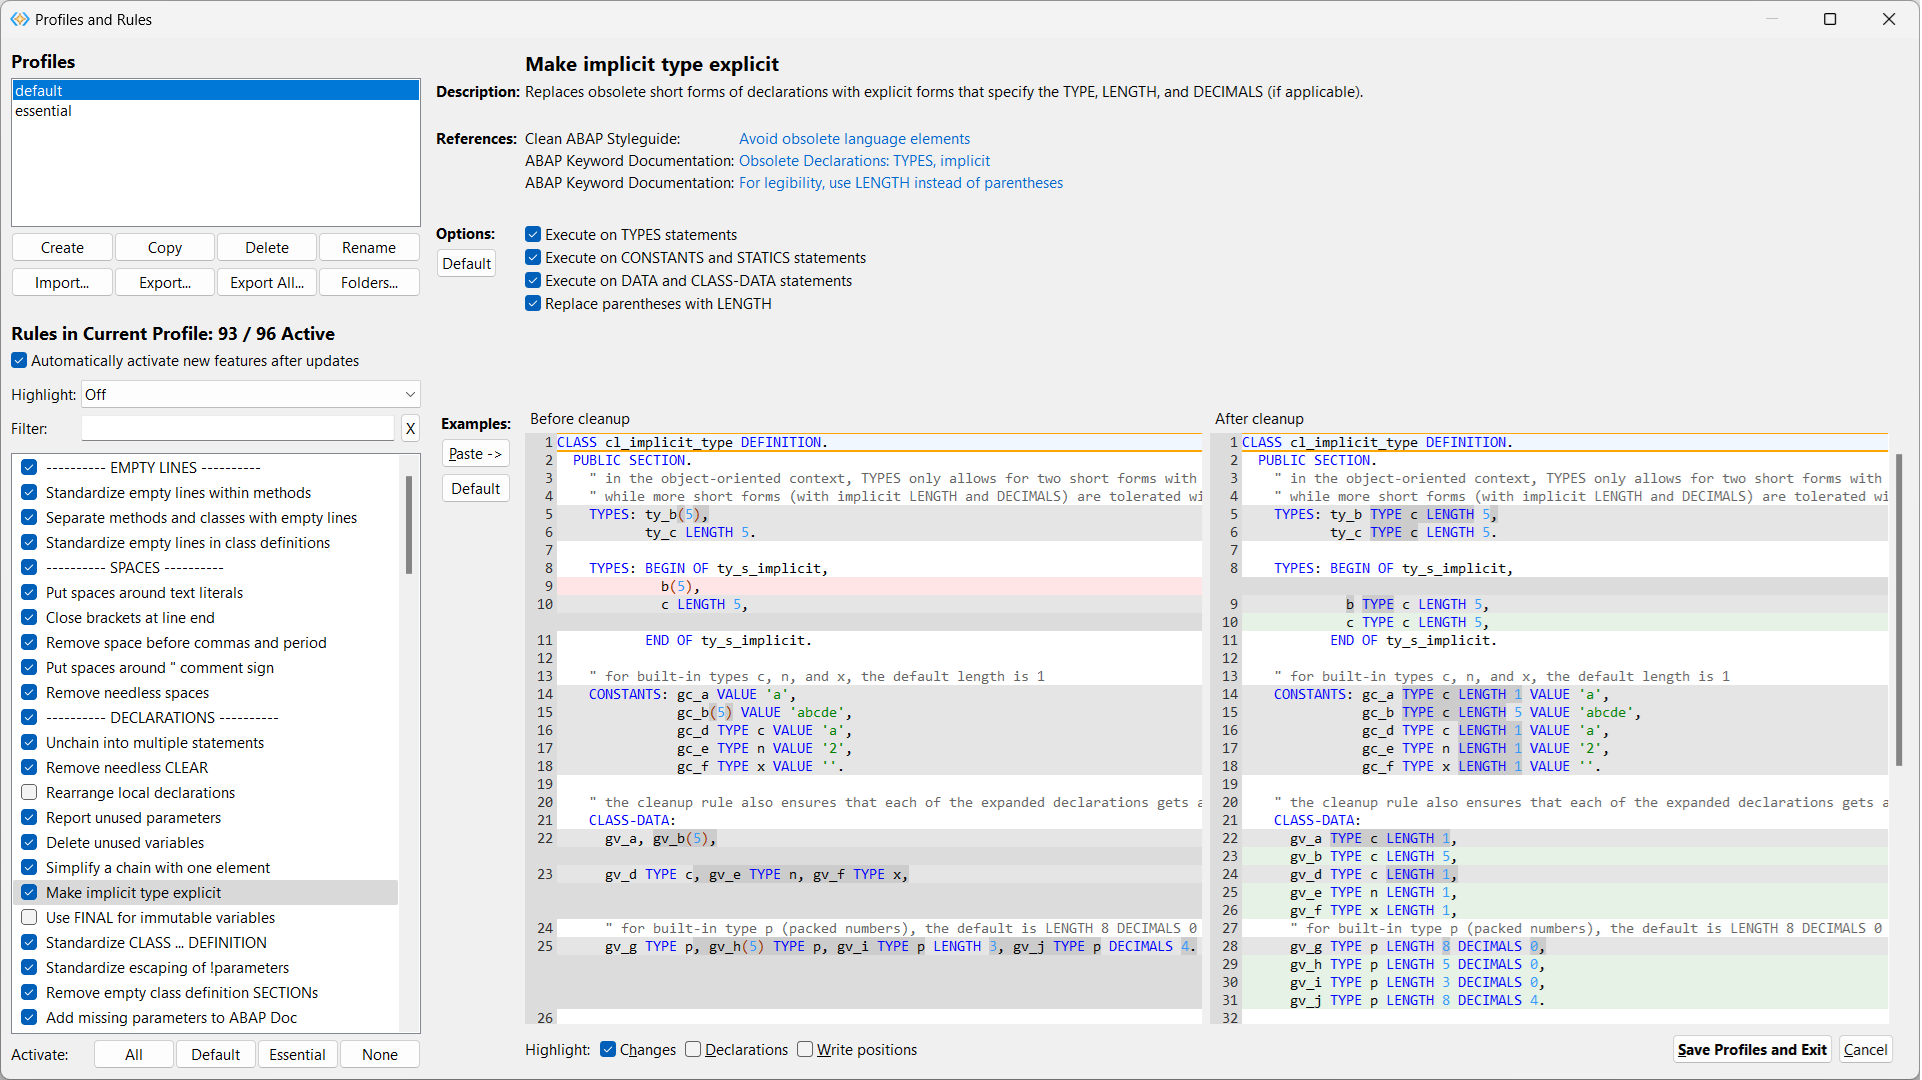
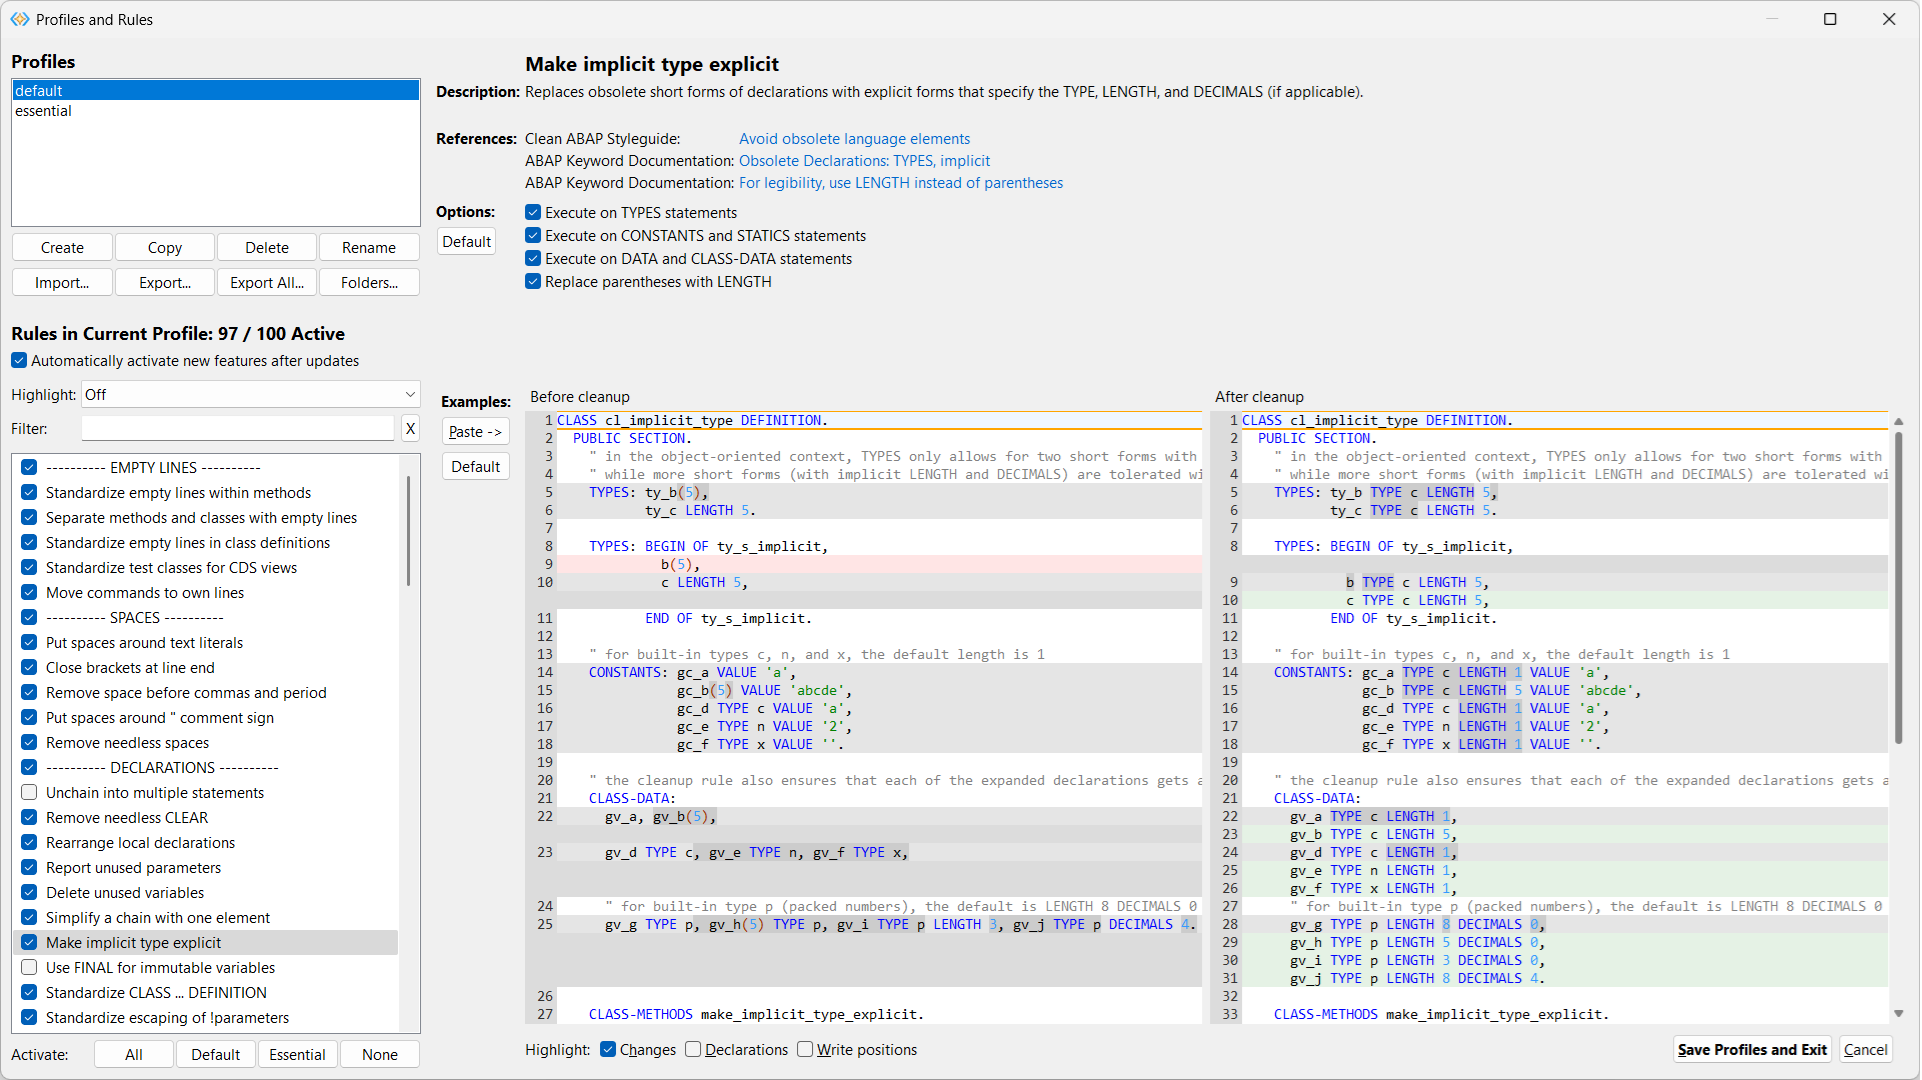
version 1.22.0

diff --git a/com.sap.adt.abapcleaner/src/com/sap/adt/abapcleaner/programbase/Program.java b/com.sap.adt.abapcleaner/src/com/sap/adt/abapcleaner/programbase/Program.java
@@ -62,6 +62,7 @@ public final class Program {
 	
 	public static Release[] getReleases() {
 		return new Release[] { 
+				Release.create("1.22.0", 2025,  9, 29), 
 				Release.create("1.21.0", 2024, 12, 16), 
 				Release.create("1.20.0", 2024, 10, 19), 
 				Release.create("1.19.0", 2024,  9, 18), 

diff --git a/docs/rules/OneCommandPerLineRule.md b/docs/rules/OneCommandPerLineRule.md
@@ -1,0 +1,112 @@
+[<-- previous rule](CdsTestClassLinesRule.md) | [overview](../rules.md) | [next rule -->](SpaceAroundTextLiteralRule.md)
+
+# Move commands to own lines
+
+If a line contains multiple commands, each command is moved to its own line.
+
+This rule is part of the **essential** profile, as it is explicitly demanded by the [Clean ABAP Styleguide](https://github.com/SAP/styleguides/blob/main/clean-abap/CleanABAP.md).
+
+## References
+
+* [Clean ABAP Styleguide: No more than one statement per line](https://github.com/SAP/styleguides/blob/main/clean-abap/CleanABAP.md#no-more-than-one-statement-per-line)
+
+## Options
+
+* \[X\] Keep one-liners after WHEN
+* \[ \] Keep multi-liners after WHEN
+
+## Examples
+
+
+```ABAP
+
+  METHOD any_method.
+    DATA lv_x TYPE i VALUE 1. DATA lv_y TYPE i VALUE 2. DATA lv_z TYPE i VALUE 3.
+
+    lv_x += 2.lv_y -= 4.lv_z *= 6.
+
+    IF lv_x > lv_y. IF lv_y < lv_z.
+      lv_x = lv_z - lv_y.ELSE.lv_y = lv_z - lv_x.ENDIF.
+    ENDIF.
+
+    DO 3 TIMES.lv_y *= 3.DO 5 TIMES.IF lv_x < lv_y + lv_z.lv_x += 2.lv_y -= 1.ELSE.lv_z *= 1.ENDIF.ENDDO.ENDDO.
+
+    CASE lv_x.
+      WHEN 1. lv_x += 1. lv_y += 1.
+      WHEN 2. lv_y -= 1. lv_z -= 2.
+      WHEN 3. lv_z *= 2. lv_x *= 3.
+    ENDCASE.
+
+    CASE lv_x.
+      WHEN 1. lv_x += 1. do_something( iv_value = lv_x
+                                       iv_name  = 'X' ).
+      WHEN 2. lv_y -= 1. do_something( iv_value = lv_y
+                                       iv_name  = 'Y' ).
+      WHEN 3. lv_z *= 2. do_something( iv_value = lv_z ).
+        do_something_else( iv_value = lv_z ).
+    ENDCASE. RETURN lv_x + lv_y + lv_z.
+  ENDMETHOD.
+```
+
+Resulting code:
+
+```ABAP
+
+  METHOD any_method.
+    DATA lv_x TYPE i VALUE 1.
+    DATA lv_y TYPE i VALUE 2.
+    DATA lv_z TYPE i VALUE 3.
+
+    lv_x += 2.
+    lv_y -= 4.
+    lv_z *= 6.
+
+    IF lv_x > lv_y.
+      IF lv_y < lv_z.
+        lv_x = lv_z - lv_y.
+      ELSE.
+        lv_y = lv_z - lv_x.
+      ENDIF.
+    ENDIF.
+
+    DO 3 TIMES.
+      lv_y *= 3.
+      DO 5 TIMES.
+        IF lv_x < lv_y + lv_z.
+          lv_x += 2.
+          lv_y -= 1.
+        ELSE.
+          lv_z *= 1.
+        ENDIF.
+      ENDDO.
+    ENDDO.
+
+    CASE lv_x.
+      WHEN 1. lv_x += 1. lv_y += 1.
+      WHEN 2. lv_y -= 1. lv_z -= 2.
+      WHEN 3. lv_z *= 2. lv_x *= 3.
+    ENDCASE.
+
+    CASE lv_x.
+      WHEN 1.
+        lv_x += 1.
+        do_something( iv_value = lv_x
+                      iv_name  = 'X' ).
+      WHEN 2.
+        lv_y -= 1.
+        do_something( iv_value = lv_y
+                      iv_name  = 'Y' ).
+      WHEN 3.
+        lv_z *= 2.
+        do_something( iv_value = lv_z ).
+        do_something_else( iv_value = lv_z ).
+    ENDCASE.
+    RETURN lv_x + lv_y + lv_z.
+  ENDMETHOD.
+```
+
+## Related code
+
+* [Rule implementation](../../com.sap.adt.abapcleaner/src/com/sap/adt/abapcleaner/rules/emptylines/OneCommandPerLineRule.java)
+* [Tests](../../test/com.sap.adt.abapcleaner.test/src/com/sap/adt/abapcleaner/rules/emptylines/OneCommandPerLineTest.java)
+

diff --git a/docs/rules/ExitOutsideLoopRule.md b/docs/rules/ExitOutsideLoopRule.md
@@ -1,0 +1,111 @@
+[<-- previous rule](ExportingKeywordRule.md) | [overview](../rules.md) | [next rule -->](CheckOutsideLoopRule.md)
+
+# Replace EXIT outside loop with RETURN
+
+Replaces EXIT outside loop with RETURN to exit the processing block.
+
+## References
+
+* [ABAP Keyword Documentation: Only use RETURN to exit procedures](https://help.sap.com/doc/abapdocu_latest_index_htm/latest/en-US/index.htm?file=abenexit_procedure_guidl.htm)
+
+## Options
+
+* \[X\] Apply to procedures \(METHOD, FUNCTION, FORM\)
+* \[X\] Apply to event blocks \(INITIALIZATION, START-OF-SELECTION etc.\)
+
+## Examples
+
+
+```ABAP
+
+REPORT any_report.
+
+CLASS any_class IMPLEMENTATION.
+  METHOD any_method.
+    DO 5 TIMES.
+      IF sy-index = 4.
+        " this continues after ENDDO
+        EXIT.
+      ENDIF.
+    ENDDO.
+
+    CASE iv_action.
+      WHEN 'exit'.
+        EXIT.
+      WHEN OTHERS.
+        do_something( ).
+    ENDCASE.
+  ENDMETHOD.
+ENDCLASS.
+
+INITIALIZATION.
+  IF a = b.
+    EXIT.
+  ENDIF.
+
+START-OF-SELECTION.
+  PERFORM any_form.
+  EXIT.
+  PERFORM unreachable_code.
+
+FORM any_form.
+  LOOP AT gt_any_table ASSIGNING <ls_any> WHERE comp1 > 10.
+    " this continues after ENDLOOP
+    EXIT.
+  ENDLOOP.
+  IF sy-subrc = 0.
+    EXIT.
+  ENDIF.
+ENDFORM.
+```
+
+Resulting code:
+
+```ABAP
+
+REPORT any_report.
+
+CLASS any_class IMPLEMENTATION.
+  METHOD any_method.
+    DO 5 TIMES.
+      IF sy-index = 4.
+        " this continues after ENDDO
+        EXIT.
+      ENDIF.
+    ENDDO.
+
+    CASE iv_action.
+      WHEN 'exit'.
+        RETURN.
+      WHEN OTHERS.
+        do_something( ).
+    ENDCASE.
+  ENDMETHOD.
+ENDCLASS.
+
+INITIALIZATION.
+  IF a = b.
+    RETURN.
+  ENDIF.
+
+START-OF-SELECTION.
+  PERFORM any_form.
+  RETURN.
+  PERFORM unreachable_code.
+
+FORM any_form.
+  LOOP AT gt_any_table ASSIGNING <ls_any> WHERE comp1 > 10.
+    " this continues after ENDLOOP
+    EXIT.
+  ENDLOOP.
+  IF sy-subrc = 0.
+    RETURN.
+  ENDIF.
+ENDFORM.
+```
+
+## Related code
+
+* [Rule implementation](../../com.sap.adt.abapcleaner/src/com/sap/adt/abapcleaner/rules/commands/ExitOutsideLoopRule.java)
+* [Tests](../../test/com.sap.adt.abapcleaner.test/src/com/sap/adt/abapcleaner/rules/commands/ExitOutsideLoopTest.java)
+

diff --git a/README.md b/README.md
@@ -23,7 +23,7 @@ while giving you full control over which rules are used and how.
 ![ABAP cleaner - code cleanup at a keystroke](docs/images/cleanup-example.png "ABAP cleaner - code cleanup at a keystroke")
 
 With ABAP cleaner, you can clean any amount of code from a single statement to an entire code document 
-with **one keystroke**. ABAP cleaner then applies **95+ different [cleanup rules](docs/rules.md)** to your code section, 
+with **one keystroke**. ABAP cleaner then applies **100+ different [cleanup rules](docs/rules.md)** to your code section, 
 cleaning approx. 1 MB of code per second.
 
 > Please don't get us wrong: Of course, an automated tool can NOT replace all other clean code efforts. 
@@ -116,7 +116,7 @@ allowing you to stay in SAP GUI and do the cleanup with *Ctrl + C*, *Ctrl + V*.
 ### Scope of the Tool
 
 ABAP cleaner can be used to clean up both existing and new code, both product code and test code, 
-both with a "broadband" approach (simultaneously applying 95+ different rules) 
+both with a "broadband" approach (simultaneously applying 100+ different rules) 
 and a focused approach (cleaning with a limited selection of rules). 
 
 ABAP cleaner was implemented with object-oriented ABAP in mind, but it may also be used for code in reports and functions. 

diff --git a/docs/release-notes.md b/docs/release-notes.md
@@ -6,6 +6,17 @@ as well as bugfixes of reported issues, i.e. anything that enhances or changes t
 For a complete list of changes (including documentation, tests, refactoring etc.), please refer to 
 the list of [commits](../../../commits/main).
 
+## 2025-09-29 (version 1.22.0)
+
+**Great thanks** to [**jan-jezek**](https://github.com/jan-jezek), [**matthewdjb**](https://github.com/matthewdjb) and
+[**fmabap**](https://github.com/fmabap) for the ideas and bug reports behind these improvements!
+
+* Added new rule '**Move commands to own lines**' ([#316](../../../issues/316))
+* Added new rule '**Replace EXIT outside loop with RETURN**' ([#277](../../../issues/277))
+* Fixed rule '**Replace READ TABLE with table expression**' for **obsolete** forms of **free key** ([#448](../../../issues/448))
+* Fixed rule '**Align logical expressions**' for SELECT with **LIKE in parentheses**
+* Updated **known CamelCase names** for CDS views and fields
+
 ## 2025-09-18 (version 1.21.4)
 
 **Thanks a lot**, [**sandraros**](https://github.com/sandraros) for helping to find this bug!

diff --git a/docs/rules.md b/docs/rules.md
@@ -1,6 +1,6 @@
 # Available Cleanup Rules
 
-ABAP cleaner offers 98 cleanup rules with a total of 464 configuration options:
+ABAP cleaner offers 100 cleanup rules with a total of 468 configuration options:
 
 ## Empty Lines
 
@@ -8,6 +8,7 @@ ABAP cleaner offers 98 cleanup rules with a total of 464 configuration options:
 * [Separate methods and classes with empty lines](rules/EmptyLinesOutsideMethodsRule.md)
 * [Standardize empty lines in class definitions](rules/EmptyLinesInClassDefinitionRule.md)
 * [Standardize test classes for CDS views](rules/CdsTestClassLinesRule.md)
+* [Move commands to own lines](rules/OneCommandPerLineRule.md)
 
 ## Spaces
 
@@ -55,6 +56,7 @@ ABAP cleaner offers 98 cleanup rules with a total of 464 configuration options:
 
 ## Commands
 
+* [Replace EXIT outside loop with RETURN](rules/ExitOutsideLoopRule.md)
 * [Convert CHECK outside loop to IF NOT ... RETURN](rules/CheckOutsideLoopRule.md)
 * [Convert CHECK in loop to IF NOT ... CONTINUE](rules/CheckInLoopRule.md)
 * [Replace long IF blocks at loop end](rules/IfBlockAtLoopEndRule.md)

diff --git a/docs/rules/CdsTestClassLinesRule.md b/docs/rules/CdsTestClassLinesRule.md
@@ -1,4 +1,4 @@
-[<-- previous rule](EmptyLinesInClassDefinitionRule.md) | [overview](../rules.md) | [next rule -->](SpaceAroundTextLiteralRule.md)
+[<-- previous rule](EmptyLinesInClassDefinitionRule.md) | [overview](../rules.md) | [next rule -->](OneCommandPerLineRule.md)
 
 # Standardize test classes for CDS views
 

diff --git a/docs/rules/SpaceAroundTextLiteralRule.md b/docs/rules/SpaceAroundTextLiteralRule.md
@@ -1,4 +1,4 @@
-[<-- previous rule](CdsTestClassLinesRule.md) | [overview](../rules.md) | [next rule -->](ClosingBracketsPositionRule.md)
+[<-- previous rule](OneCommandPerLineRule.md) | [overview](../rules.md) | [next rule -->](ClosingBracketsPositionRule.md)
 
 # Put spaces around text literals
 

diff --git a/docs/rules/CheckOutsideLoopRule.md b/docs/rules/CheckOutsideLoopRule.md
@@ -1,4 +1,4 @@
-[<-- previous rule](ExportingKeywordRule.md) | [overview](../rules.md) | [next rule -->](CheckInLoopRule.md)
+[<-- previous rule](ExitOutsideLoopRule.md) | [overview](../rules.md) | [next rule -->](CheckInLoopRule.md)
 
 # Convert CHECK outside loop to IF NOT ... RETURN
 

diff --git a/docs/rules/ExportingKeywordRule.md b/docs/rules/ExportingKeywordRule.md
@@ -1,4 +1,4 @@
-[<-- previous rule](ReceivingKeywordRule.md) | [overview](../rules.md) | [next rule -->](CheckOutsideLoopRule.md)
+[<-- previous rule](ReceivingKeywordRule.md) | [overview](../rules.md) | [next rule -->](ExitOutsideLoopRule.md)
 
 # Omit optional EXPORTING
 
